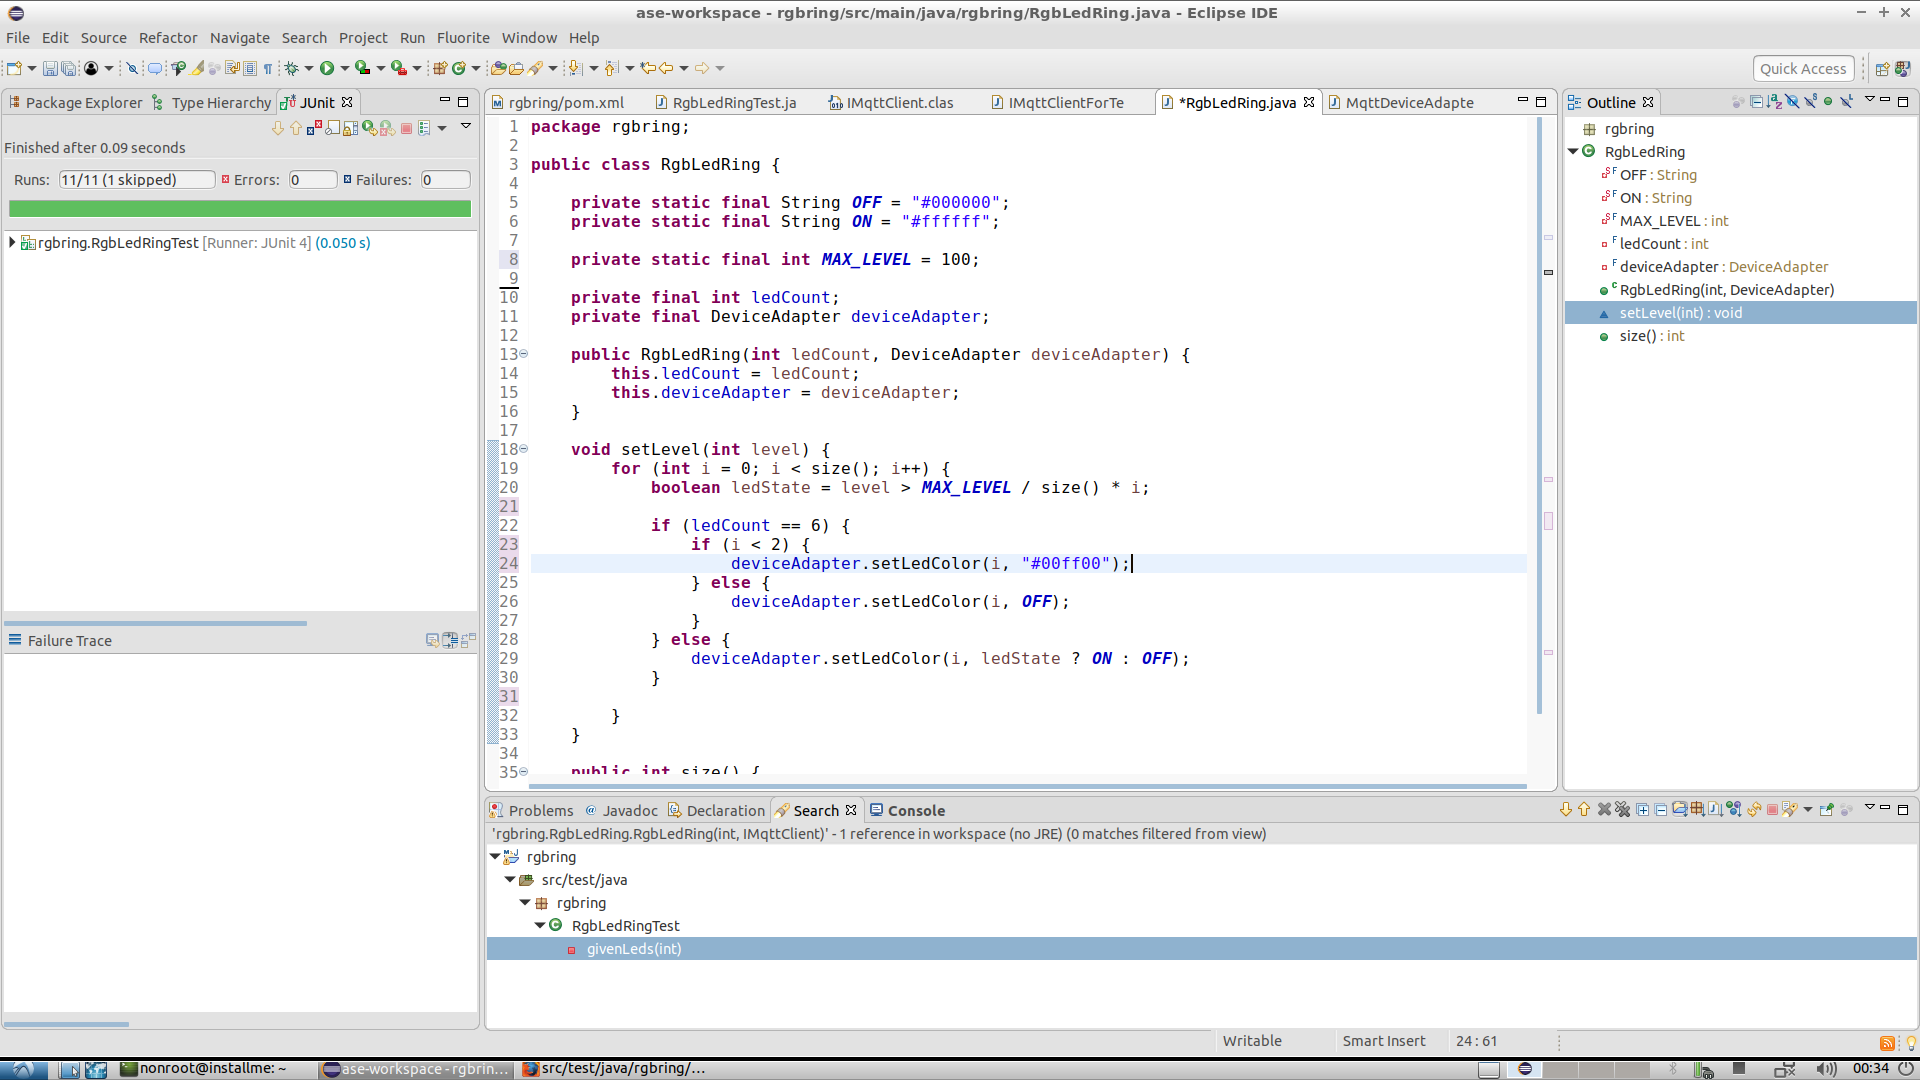
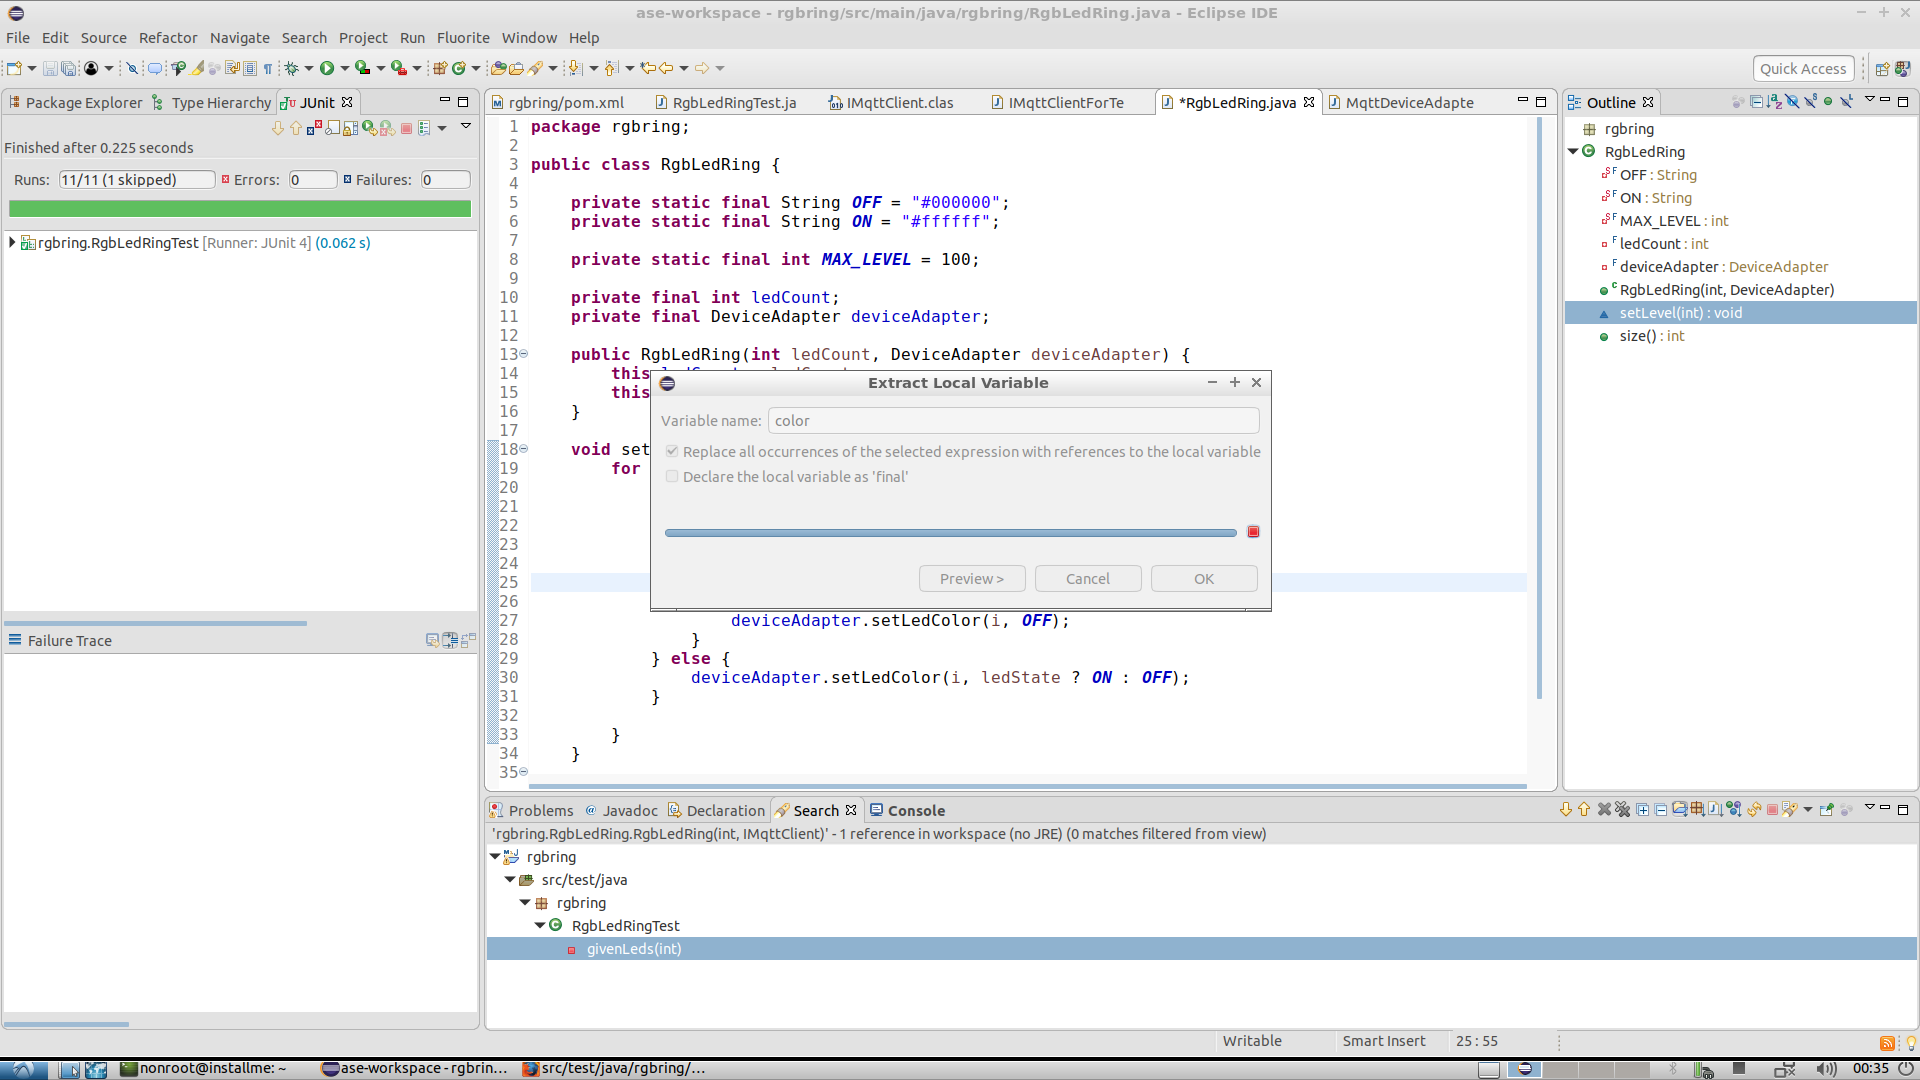
autocommit on change

diff --git a/src/main/java/rgbring/RgbLedRing.java b/src/main/java/rgbring/RgbLedRing.java
@@ -21,7 +21,8 @@ public class RgbLedRing {
 
 			if (ledCount == 6) {
 				if (i < 2) {
-					deviceAdapter.setLedColor(i, "#00ff00");
+					String color = "#00ff00";
+					deviceAdapter.setLedColor(i, color);
 				} else {
 					deviceAdapter.setLedColor(i, OFF);
 				}
